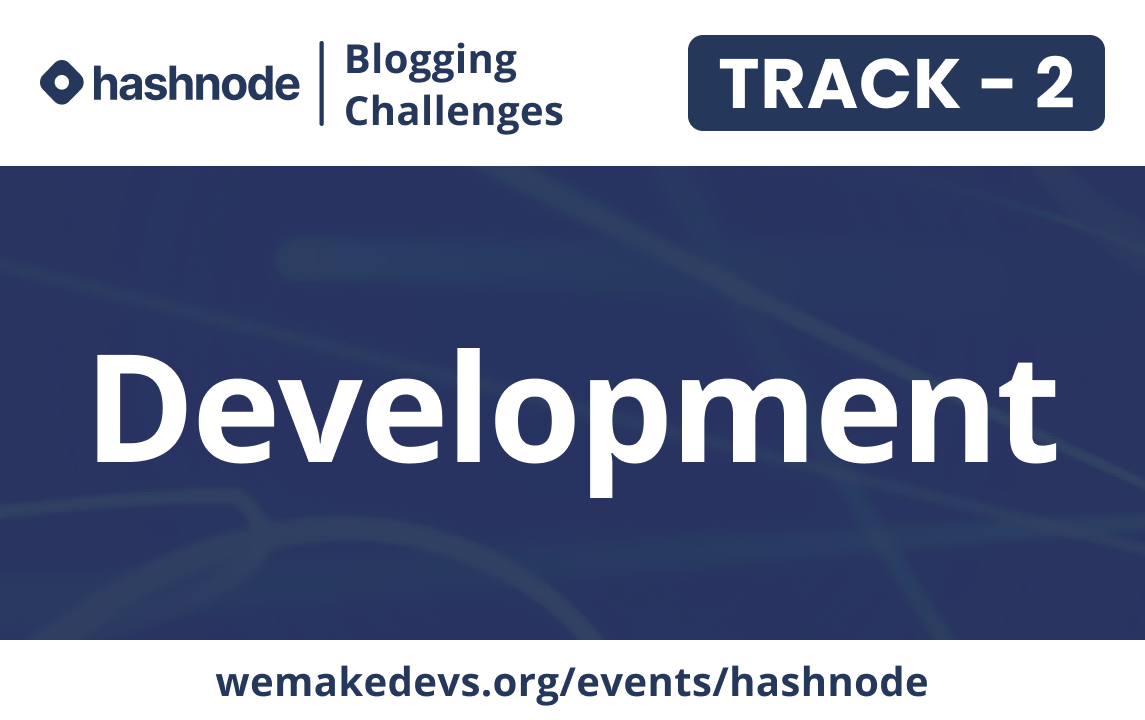
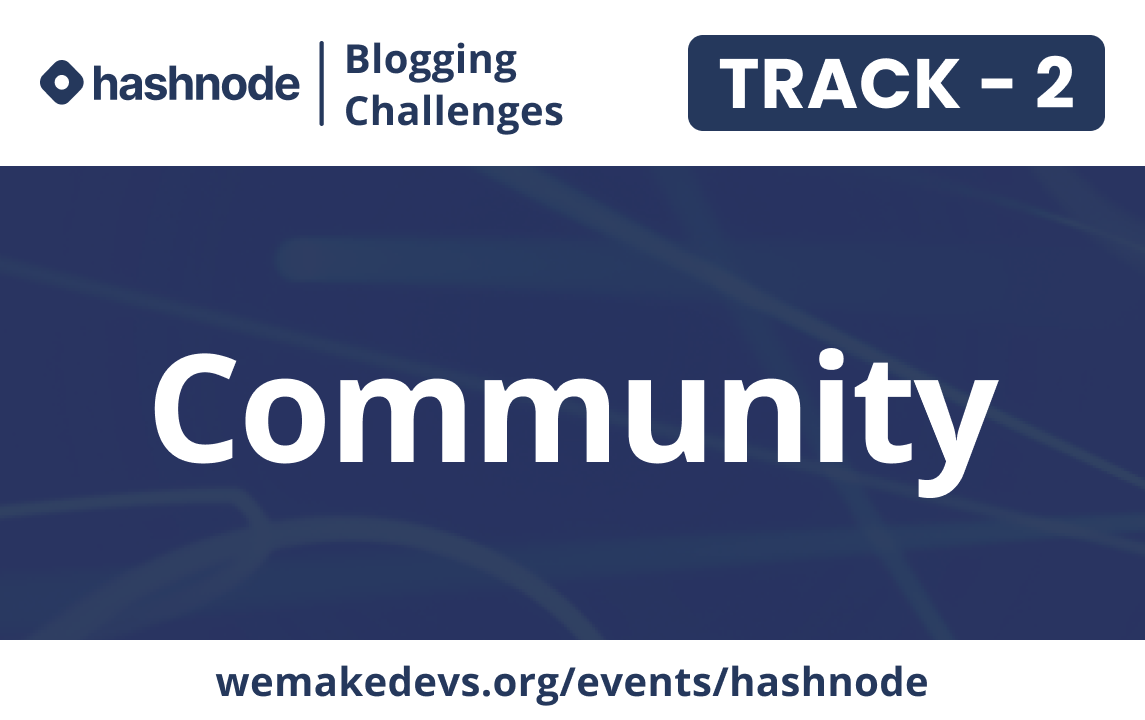
Update: Hashnode prizes and tracks April 2023

Changed region(s): [[0.0611, 0.4583, 0.9476, 0.7028]]

diff --git a/src/components/PageComp/HashnodePage/Tracks.jsx b/src/components/PageComp/HashnodePage/Tracks.jsx
@@ -27,27 +27,27 @@ export default Tracks;
 const hashnodeData = [
   {
     description:
-      'Write a blog on the topic DSA and stand a chance to win the prize.',
+      'Write a blog on the topic Cloud and stand a chance to win the prize.',
     image: Track1,
   },
   {
     description:
-      'Write a blog on the topic Development, share some projects, tips and stand a chance to win prize.',
+      'Write a blog on the topic Community, share some of your best expereinces, tips and stand a chance to win prize.',
     image: Track2,
   },
   {
     description:
-      'Write a blog on the topic Dev-tools and stand a chance to win the prize.',
+      'Write a blog on the topic Artifical Intelligence and stand a chance to win the prize.',
     image: Track3,
   },
   {
     description:
-      'Write a blog on the topic Linux, share some good tips and your experience and definitely stand a chance to win the grand prize.',
+      'Write a blog on the topic Security, share some good tips and your experience and definitely stand a chance to win the grand prize.',
     image: Track4,
   },
   {
     description:
-      'Write a blog sharing about how you recovered from burnout, or what are some methods you use to deal with it and you can win a JBL Wireless Speaker!',
+      'Write a blog sharing about your entire journey though tech, how you get started, what struggles did you overcome, and you can win some amazing techincal books this month!',
     image: Special,
   },
 ];
